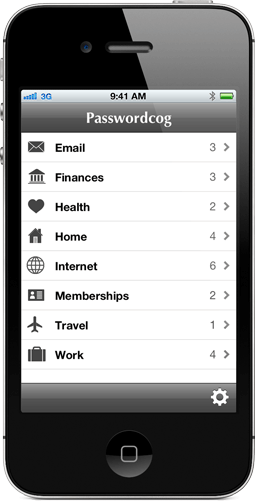
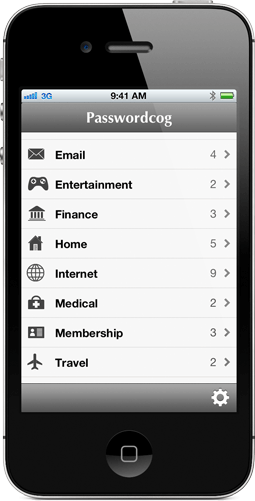
Update app description and screenshot.

Changed region(s): [[0.0824, 0.1796, 0.9333, 0.8383]]

diff --git a/public/passwordcog.html b/public/passwordcog.html
@@ -68,12 +68,11 @@
             <p>
               <b>Features:</b>
               <ul>
-                <li>Saves passwords in one of the 8 available categories.</li>
+                <li>Saves passwords in one of the 10 available categories.</li>
                 <li>Sorts accounts by alphabetical order, or order them manually.</li>
                 <li>Requires a master passcode to access the app.</li>
                 <li>Auto-locks to protect the app from prying eyes.</li>
                 <li>Optionally erases all data in case of many failed unlock attempts.</li>
-                <li>Stores passwords using encryption.</li>
                 <li>Synchronizes with iCloud.</li>
               </ul>
             </p>
